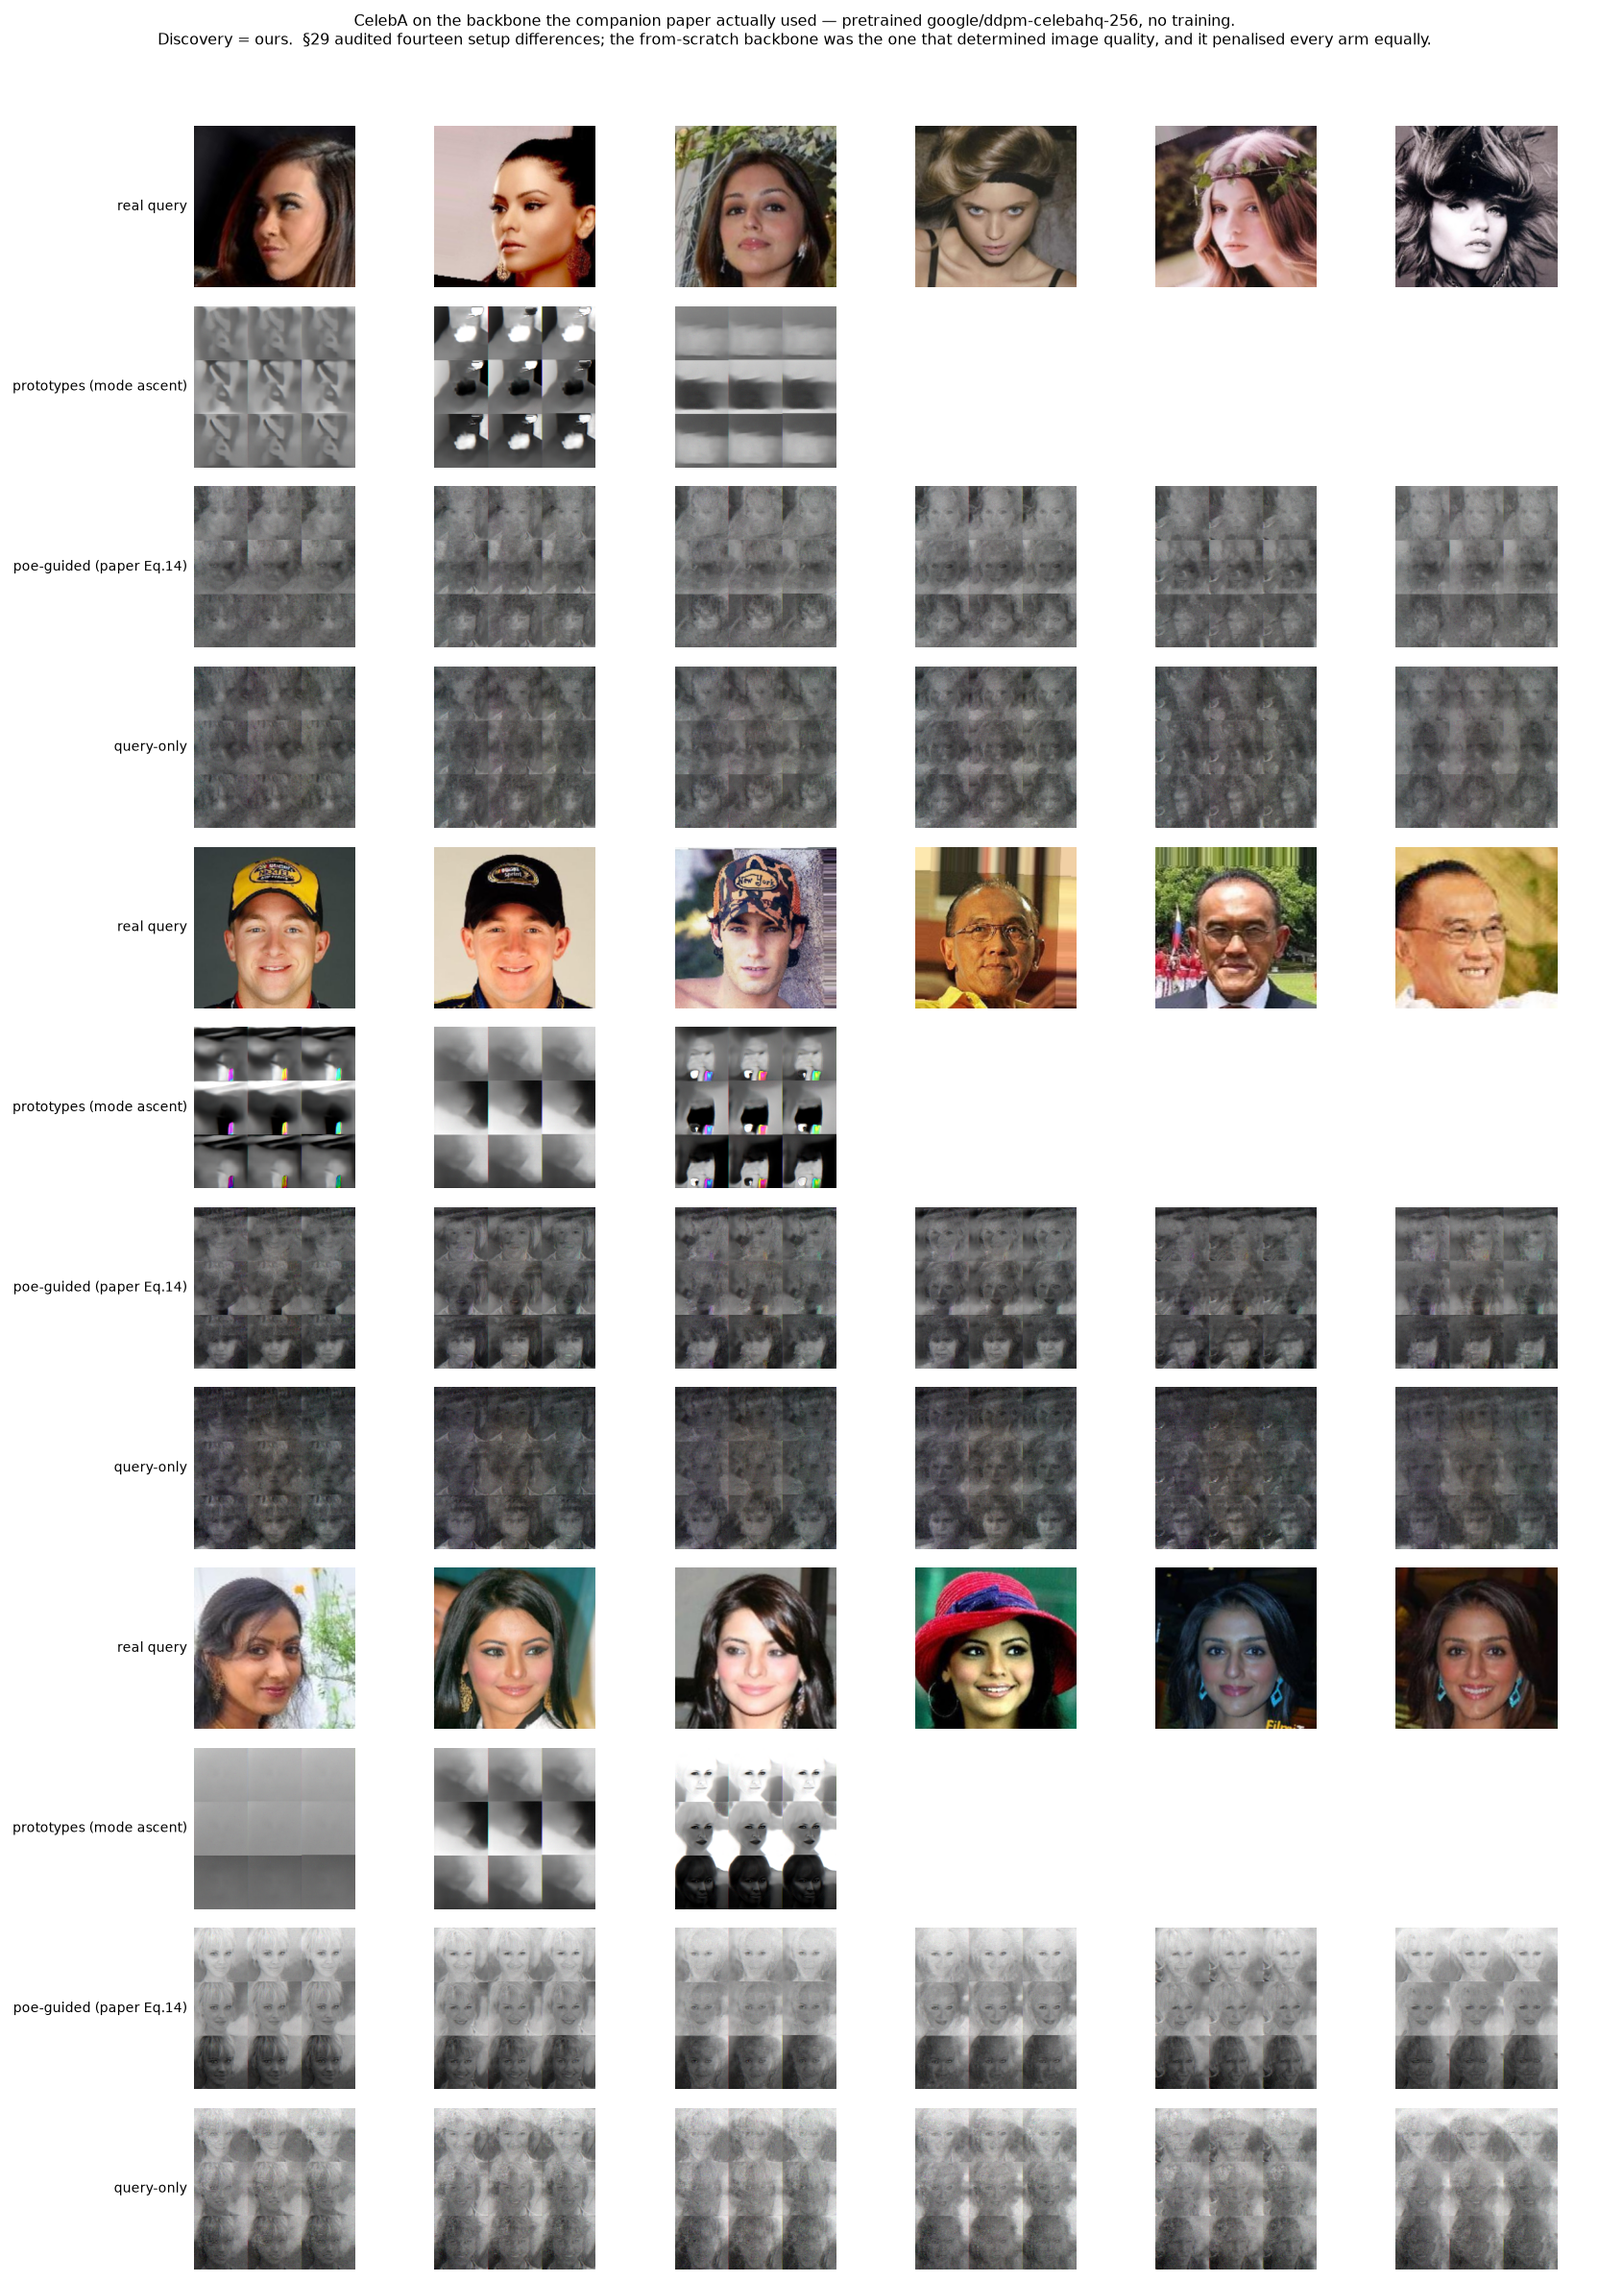
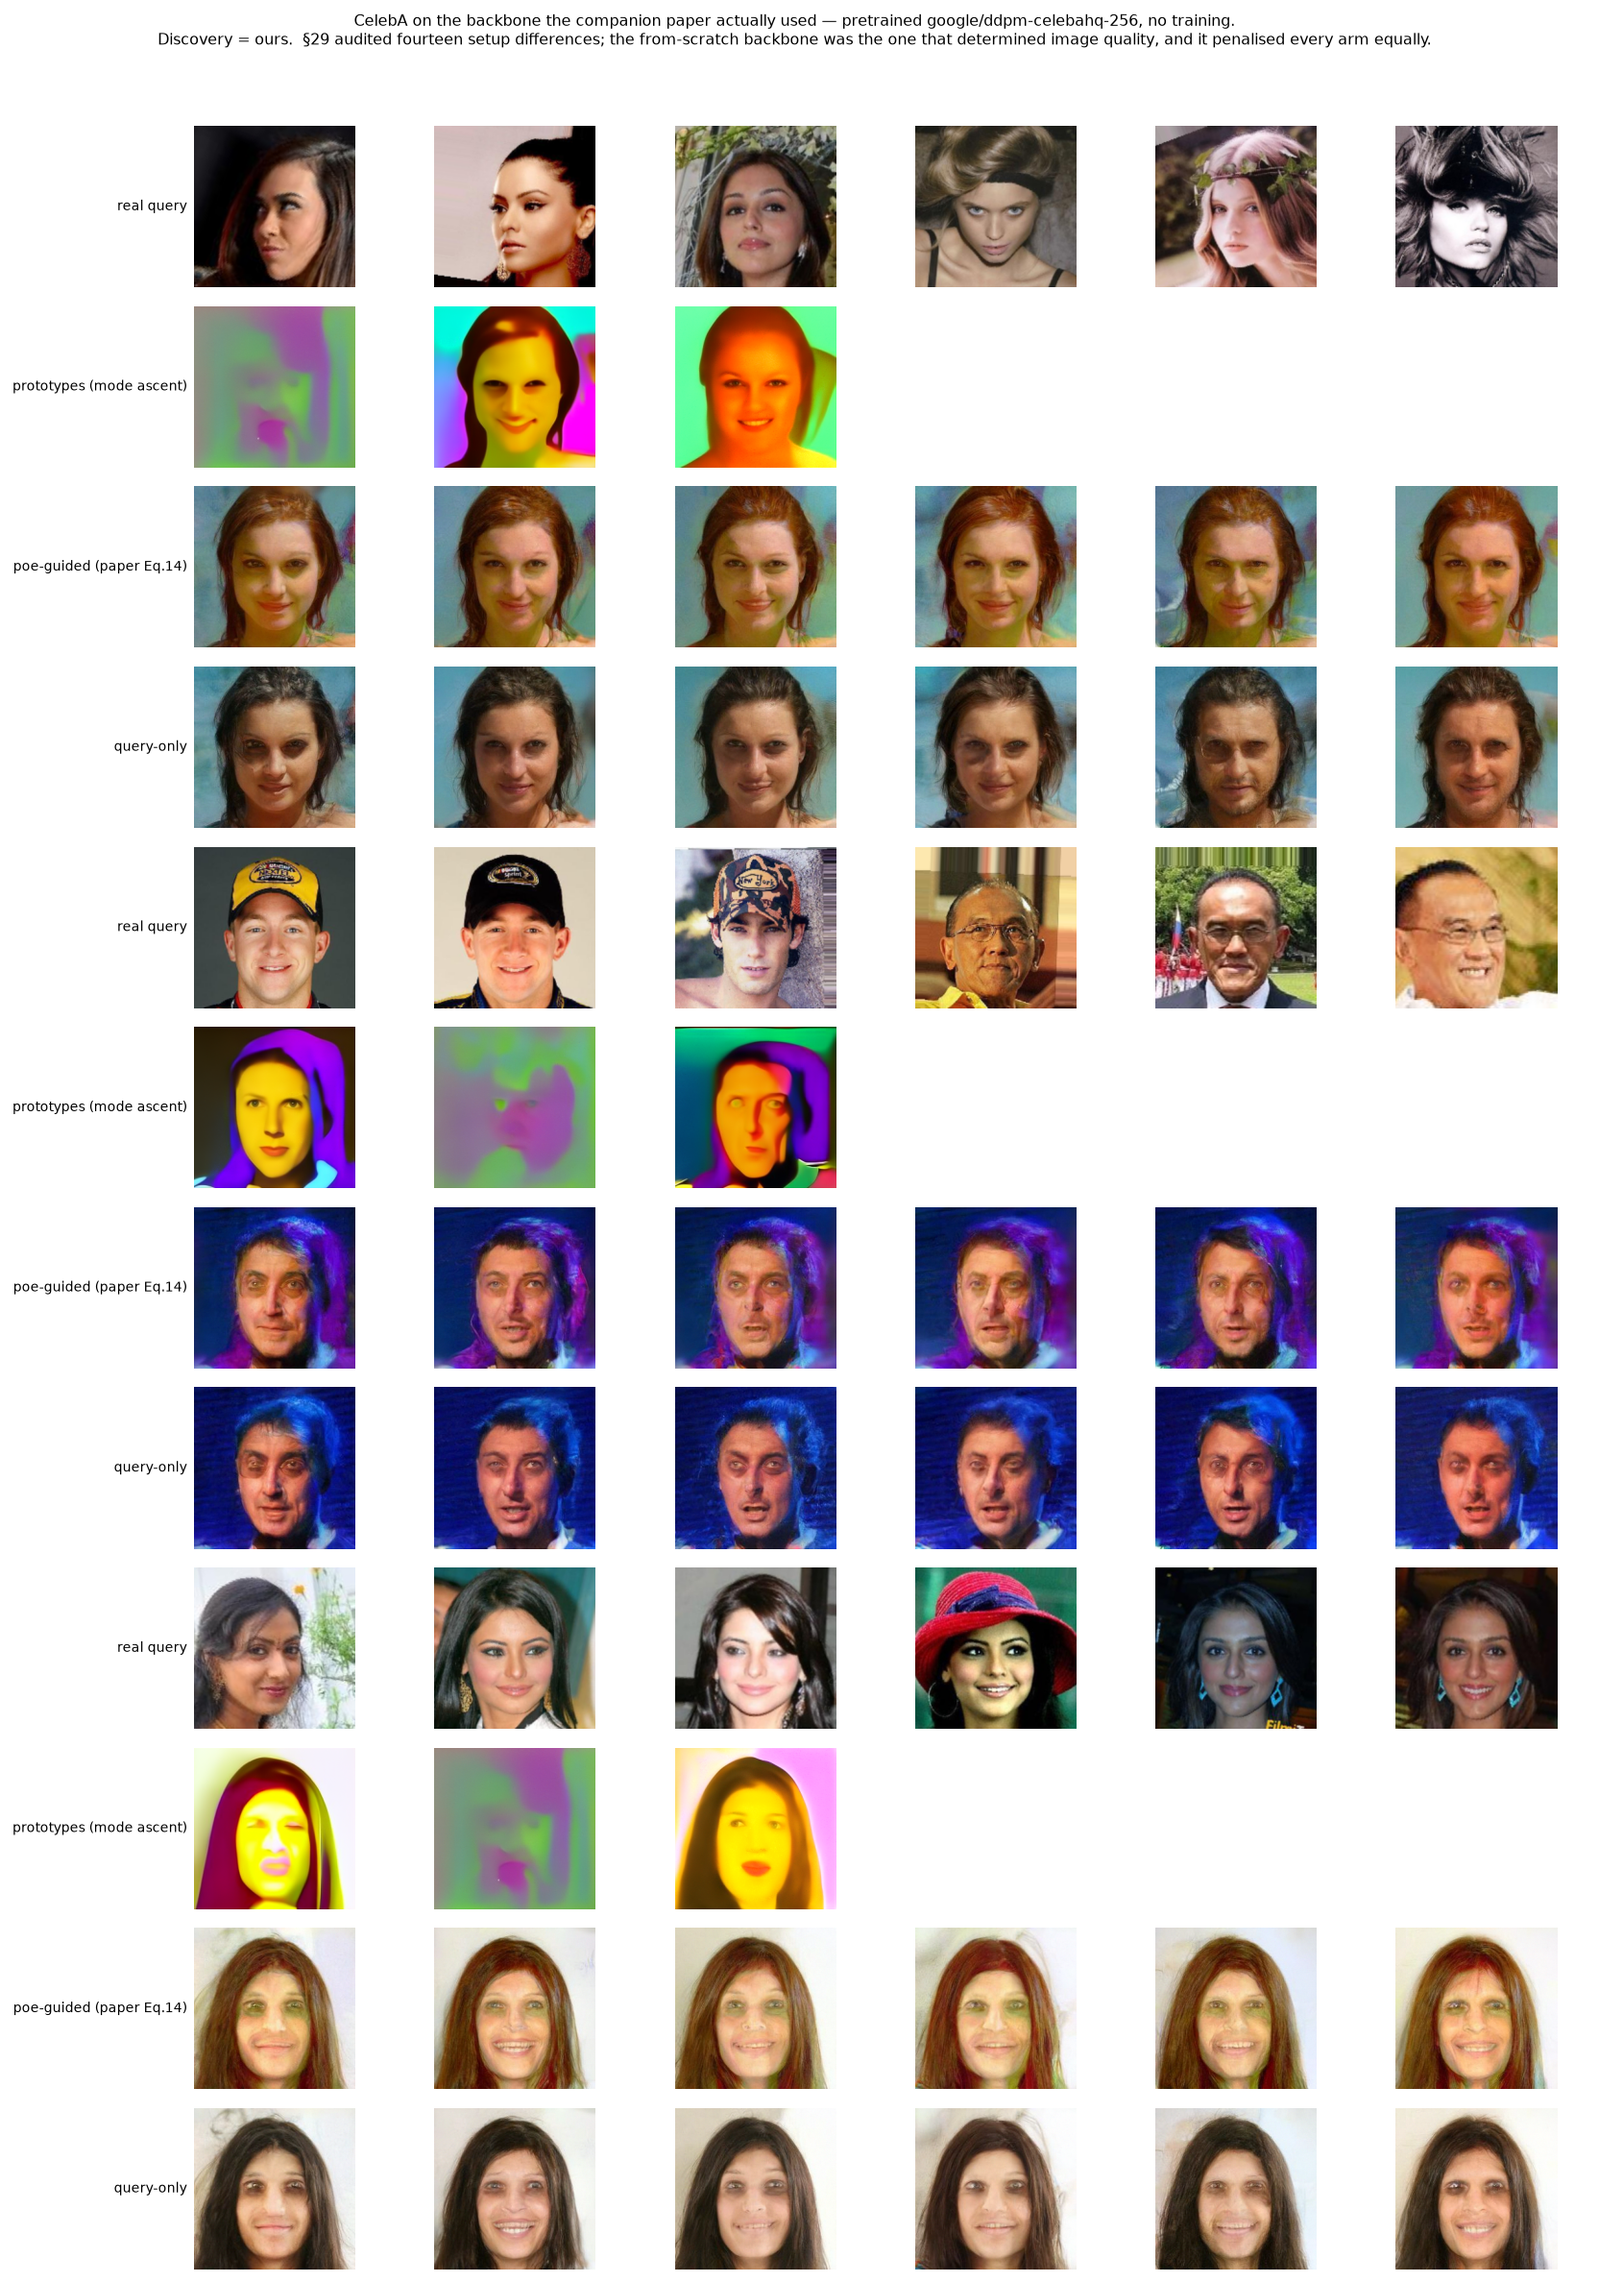
Constrain mode ascent to the data's support; unconstrained Adam was leaving the gamut
With the layout fixed, the pretrained CelebA samples became real faces -- and exposed
the next fault underneath it: extreme colour saturation.  Prototypes came out neon
posterized and the guided samples carried heavy casts, while the STRUCTURE was correct.
That is an out-of-gamut signature, not a modelling failure.

Cause: mode_ascent is Adam with a fixed step and no constraint on where it goes.  Adam's
update is normalized, so every coordinate moves by about lr per iteration whatever the
gradient is.  At the paper's CelebA settings -- lr 0.09, 100 iterations -- a pixel can
travel 9.0 in a space where clean images live in [-1, 1], and nothing pulls it back.

The constraint is the support, not a hack.  A clean image lies in [-1,1]; at noise level
u a valid x_t is sqrt(abar)*x0 + sqrt(1-abar)*eps, so x_t concentrates inside
+-(sqrt(abar) + k*sqrt(1-abar)).  p_t has vanishing mass outside that box, so a "mode"
found out there is an artefact of unconstrained optimization rather than a mode of the
distribution, and the x0-space value returned (x / sqrt(abar)) cannot be rendered.

clamp=True is now the default with clamp=False reproducing the old behaviour, and
diag_ascent_range.py measures the out-of-range fraction both ways.

Also: the 60-epoch hwc/permuted CelebA pair finished (28 min each, 51 classes, 13/14
probes readable), and the band test now covers them.

diff --git a/tests/diag_ascent_range.py b/tests/diag_ascent_range.py
@@ -1,0 +1,61 @@
+"""Does mode ascent leave the valid image range?  The neon prototypes say yes; this measures it.
+
+`BaseScoreField.mode_ascent` is Adam with a fixed step size and NO constraint on where it goes.
+Adam's update is normalized, so each coordinate moves by about `lr` per iteration whatever the
+gradient is: at the paper's CelebA settings (lr 0.09, 100 iterations) a pixel can travel **9.0** in
+a space where valid images live in [-1, 1].
+
+Nothing pulls it back.  A clean image x0 lies in [-1, 1]; at noise level u a valid x_t is
+`sqrt(abar)*x0 + sqrt(1-abar)*eps`, so x_t is concentrated in roughly
+`+-(sqrt(abar) + 3*sqrt(1-abar))`.  Ascent that wanders outside that box is not finding a mode of
+p_t -- it is off the support of the data the density was built from, and the x0-space mode it
+returns (`x / sqrt(abar)`) is out of gamut.  Out-of-gamut is exactly what saturated neon colour is.
+
+Reports, per noise level, what fraction of the returned x0-space modes fall outside [-1, 1] and how
+far the worst coordinate goes.  Run on the pretrained CelebA backbone, which is where the artifact
+was seen.
+
+    python tests/diag_ascent_range.py
+"""
+import os
+import sys
+
+import numpy as np
+import torch
+
+sys.path.insert(0, os.path.dirname(os.path.dirname(os.path.abspath(__file__))))
+sys.path.insert(0, os.path.join(os.path.dirname(os.path.dirname(os.path.abspath(__file__))),
+                                "experiments"))
+
+from lifelong_ood.score import cosine_abar                                     # noqa: E402
+
+
+def main():
+    from lifelong_ood.celeba import load_celeba
+    from lifelong_ood.neural import to_model
+    from lifelong_ood.neural.pretrained import load_pretrained
+    dev = "cuda" if torch.cuda.is_available() else "cpu"
+    field, img = load_pretrained("google/ddpm-celebahq-256", device=dev, batch=4)
+    data = load_celeba(n_per_class=4, img=img, seed=0, min_count=25, max_rows=4000)
+    xq = to_model(np.asarray(data["X"])[:1]).ravel()
+
+    print(f"[range] pretrained backbone at {img}px; valid images live in [-1, 1]\n")
+    print(f"  {'u':>6s} {'clamp':>7s} {'frac |x0|>1':>12s} {'max |x0|':>10s} {'mean |x0|':>10s}")
+    rows = []
+    for u in (0.05, 0.15, 0.3, 0.5):
+        for clamp in (False, True):
+            M, _ = field.mode_ascent(xq, u, n_starts=4, iters=100, lr=0.09, seed=0,
+                                     init="query", clamp=clamp)
+            a = float(cosine_abar(u))
+            x0 = np.asarray(M) / np.sqrt(a)
+            frac = float((np.abs(x0) > 1.0).mean())
+            print(f"  {u:6.2f} {str(clamp):>7s} {frac:12.4f} {np.abs(x0).max():10.3f} "
+                  f"{np.abs(x0).mean():10.3f}")
+            rows.append((u, clamp, frac, float(np.abs(x0).max())))
+    print("\n[range] a large out-of-range fraction means ascent is off the data's support, and the\n"
+          "        x0-space mode it returns cannot be rendered -- which is what saturated neon is.")
+    return 0
+
+
+if __name__ == "__main__":
+    sys.exit(main())

diff --git a/lifelong_ood/score.py b/lifelong_ood/score.py
@@ -159,8 +159,22 @@ class BaseScoreField:
         return np.clip(x, clip[0], clip[1])
 
     # ── mode ascent on p_t (the paper's Eq. 4) ──────────────────────────────
-    def mode_ascent(self, xq, u, n_starts=16, iters=100, lr=0.05, seed=0, init="query"):
-        """Adam ascent on log p_t from noised copies of the query -> (modes in x_t space, x0-space)."""
+    def mode_ascent(self, xq, u, n_starts=16, iters=100, lr=0.05, seed=0, init="query",
+                    clamp=True, k_sigma=3.0):
+        """Adam ascent on log p_t from noised copies of the query -> (modes in x_t space, x0-space).
+
+        `clamp` keeps the ascent on the DATA'S SUPPORT, and without it this walks off into nonsense.
+        Adam's update is normalized, so every coordinate moves by about `lr` per iteration whatever
+        the gradient is: at the paper's CelebA settings (lr 0.09, 100 iterations) a pixel can travel
+        9.0 in a space where clean images live in [-1, 1], and nothing pulls it back.
+
+        The constraint is not a hack, it is the support.  A clean image x0 lies in [-1, 1]; at noise
+        level u a valid x_t is `sqrt(abar)*x0 + sqrt(1-abar)*eps`, so x_t is concentrated inside
+        `+-(sqrt(abar) + k*sqrt(1-abar))`.  p_t has vanishing mass outside that box, so a "mode"
+        found there is an artefact of unconstrained optimization rather than a mode of the
+        distribution -- and the x0-space value returned (`x / sqrt(abar)`) is out of gamut, which is
+        what saturated neon prototypes are.  `clamp=False` reproduces the old behaviour.
+        """
         rng = np.random.default_rng(seed)
         a = float(cosine_abar(u))
         D = self.dim
@@ -172,11 +186,14 @@ class BaseScoreField:
             x = rng.standard_normal((n_starts, D))
         m = np.zeros_like(x); v = np.zeros_like(x)
         b1, b2, eps = 0.9, 0.999, 1e-8
+        bound = np.sqrt(a) + k_sigma * np.sqrt(max(1.0 - a, 0.0))
         for i in range(1, iters + 1):
             g = self.score(x, u)
             m = b1 * m + (1 - b1) * g
             v = b2 * v + (1 - b2) * g * g
             x = x + lr * (m / (1 - b1 ** i)) / (np.sqrt(v / (1 - b2 ** i)) + eps)
+            if clamp:
+                x = np.clip(x, -bound, bound)
         return x, x / np.sqrt(a)
 
     def laplace_diag(self, xt, u, probes=4, delta=5e-3, seed=0, var_floor=1e-4, var_cap=1.0):

diff --git a/tests/diag_band_artifact.py b/tests/diag_band_artifact.py
@@ -64,9 +64,11 @@ def main():
     print(f"[bands] {'REAL CelebA (control)':44s} seam score {s_real:.3f}")
     rows.append(("real", s_real, prof_real))
 
-    cands = [("ddpm_celeba_factored.pt", "our 64px backbone (permuted)"),
-             ("ddpm_celeba_layout_permuted.pt", "12-epoch matched pair: permuted"),
-             ("ddpm_celeba_layout_hwc.pt", "12-epoch matched pair: HWC (counter-control)")]
+    cands = [("ddpm_celeba_factored.pt", "our shipped 64px backbone (permuted)"),
+             ("ddpm_celeba_layout_permuted.pt", "12-epoch pair: permuted"),
+             ("ddpm_celeba_layout_hwc.pt", "12-epoch pair: HWC"),
+             ("ddpm_celeba_permuted.pt", "60-epoch pair: permuted"),
+             ("ddpm_celeba_hwc.pt", "60-epoch pair: HWC (the replacement backbone)")]
     for ckname, label in cands:
         p = os.path.join(CACHE, ckname)
         if not os.path.exists(p):
